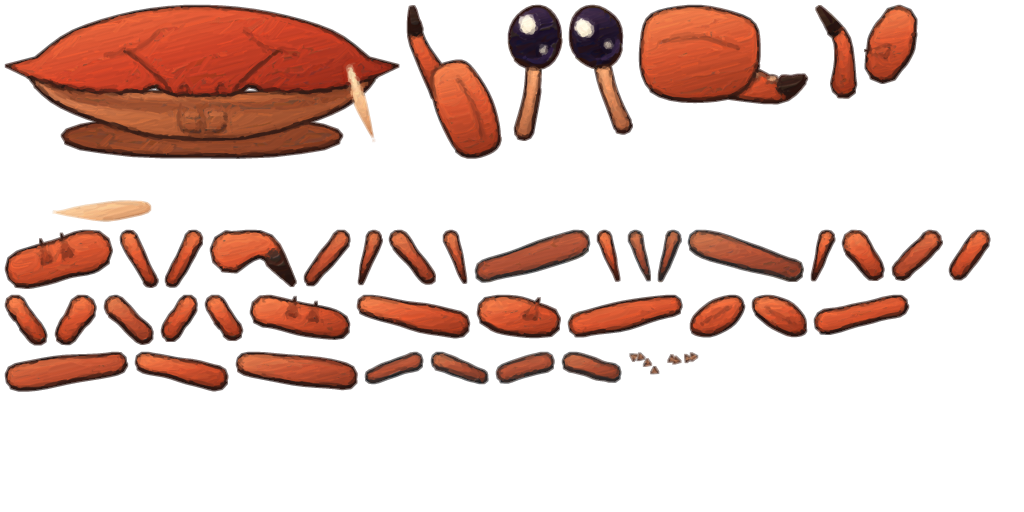
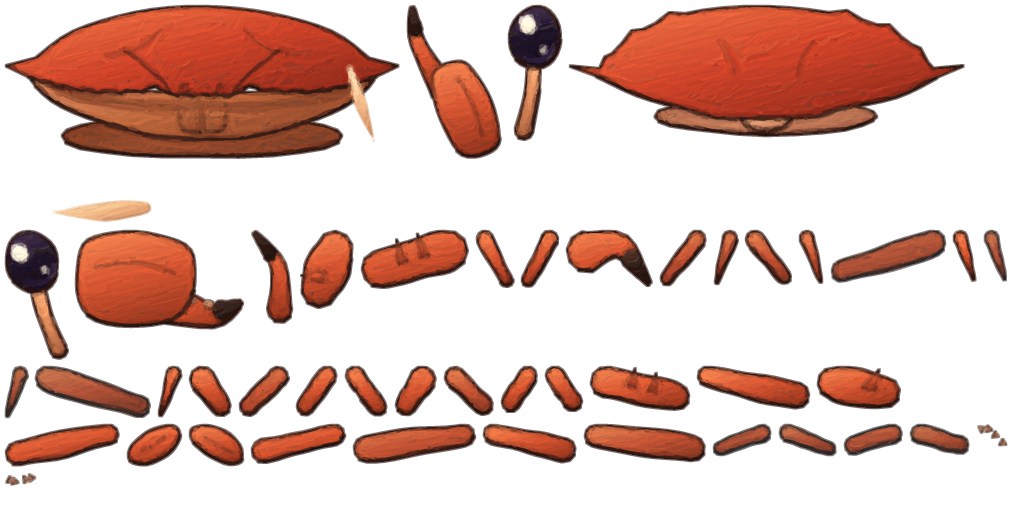
Rig: the crab's shell seen from behind, for the game
crabrig's back view of the carapace (posterior border nearest, the toothed
edge as the far skyline, its grooves, the folded abdomen and the sternum's
shadow) goes into the crab's parts file as back-carapace, a part riding on
the carapace. Re-exported the atlas and parts file (46 parts) and repainted
the oil atlas; the rig test counts it.

Changed region(s): [[0.0, 0.4375, 1.0, 0.9688], [0.5312, 0.0, 0.9375, 0.2812], [0.1875, 0.1562, 0.2188, 0.1875]]

diff --git a/crates/crabrig/src/parts.rs b/crates/crabrig/src/parts.rs
@@ -2,7 +2,7 @@
 
 use regex::Regex;
 
-use crate::crab::{Pose, build_front};
+use crate::crab::{Pose, back_shell, build_front};
 use crate::geom::*;
 use crate::item::{Item, Kind, transform_items};
 use crate::palette;
@@ -58,6 +58,14 @@ pub fn parent_of(id: &str) -> String {
             _ => format!("{}-propodus-palm", &m[1]),
         };
     }
+    // The back view's shell (`crab::back_shell`): its pieces ride on it.
+    if id.starts_with("back-") {
+        return if id == "back-carapace" {
+            "carapace".into()
+        } else {
+            "back-carapace".into()
+        };
+    }
     if re(r"^eye-|^antenn|^maxilliped|^face|^underside|^gear-helmet").is_match(id) {
         return "carapace".into();
     }
@@ -68,14 +76,19 @@ pub fn parent_of(id: &str) -> String {
     }
 }
 
-/// `crab-parts.svg` for a pose (the hero pose for the game).
+/// `crab-parts.svg` for a pose (the hero pose for the game), with the shell seen from behind last (the game shows
+/// it once the crab turns its back).
 pub fn parts_svg(pose: &Pose) -> String {
+    let mut items = build_front(pose);
+    items.extend(back_shell(pose));
     write(
-        build_front(pose),
+        items,
         "<!-- CrabScape player crab: rig-ready cut-out parts, front (in-game) view, neutral pose.
   One <g> per part. data-pivot = the joint this part rotates about (its proximal end), in this file's pixels.
   data-parent = the part it hangs from. Draw order = document order. R/L = the crab's own right/left
-  (R is screen-left in this view). Legs: 1-3 walking legs, 4 = swimming paddle (the 5th pereiopod). -->",
+  (R is screen-left in this view). Legs: 1-3 walking legs, 4 = swimming paddle (the 5th pereiopod).
+  back-*: the shell seen from behind (posterior border nearest), shown in the game instead of the carapace and face
+  when the crab turns its back. -->",
         "CrabScape player crab · rig parts (front view)",
         parent_of,
     )

diff --git a/crates/crabrig/src/crab.rs b/crates/crabrig/src/crab.rs
@@ -310,6 +310,36 @@ fn js_num(v: f64) -> String {
     s
 }
 
+/// The shell seen from behind, for the game's turn to strike across: the back view's carapace (posterior border
+/// nearest, the toothed edge as the far skyline), its grooves, the sternum's shadow and the folded abdomen under
+/// the border, renamed `back-...`. `back-carapace` turns about its middle; the rest ride on it. The game shows it
+/// in place of the front's carapace and face once the crab has turned its back.
+pub fn back_shell(pose: &Pose) -> Vec<Item> {
+    let keep = [
+        "underside-sternum",
+        "abdomen-fold",
+        "carapace",
+        "carapace-groove-R",
+        "carapace-groove-L",
+    ];
+    let mut back = *pose;
+    back.view = View::Back;
+    back.gear = Gear::default();
+    build_front(&back)
+        .into_iter()
+        .filter(|it| keep.contains(&it.id.as_str()))
+        .map(|mut it| {
+            if it.id == "carapace" {
+                let b = bbox(it.pts.iter());
+                it.pv = Some([b.x0 + b.w / 2.0, b.y0 + b.h / 2.0]);
+            }
+            it.id = format!("back-{}", it.id);
+            it.g = Some("back-carapace".into());
+            it
+        })
+        .collect()
+}
+
 // ---------- the front / back view puppet ----------
 pub fn build_front(pose: &Pose) -> Vec<Item> {
     let back = pose.view == View::Back;

diff --git a/crates/crabrig/tests/rig.rs b/crates/crabrig/tests/rig.rs
@@ -35,8 +35,10 @@ fn the_game_parts_file_matches_the_rig() {
         },
     )
     .unwrap();
-    // 43, plus the two rows of scissor-claw teeth on the crusher (shown in the game once fitted).
-    assert_eq!(e.parts, 45);
+    // 43, plus the two rows of scissor-claw teeth on the crusher (shown in the game once fitted), plus the shell
+    // seen from behind (shown once the crab turns its back).
+    assert_eq!(e.parts, 46);
+    assert!(e.json.contains(r#""name": "back-carapace""#));
     assert!(
         e.json == GAME_JSON,
         "assets/crab/crab-parts.json is out of date: cargo run -p crabrig --profile art -- export"
